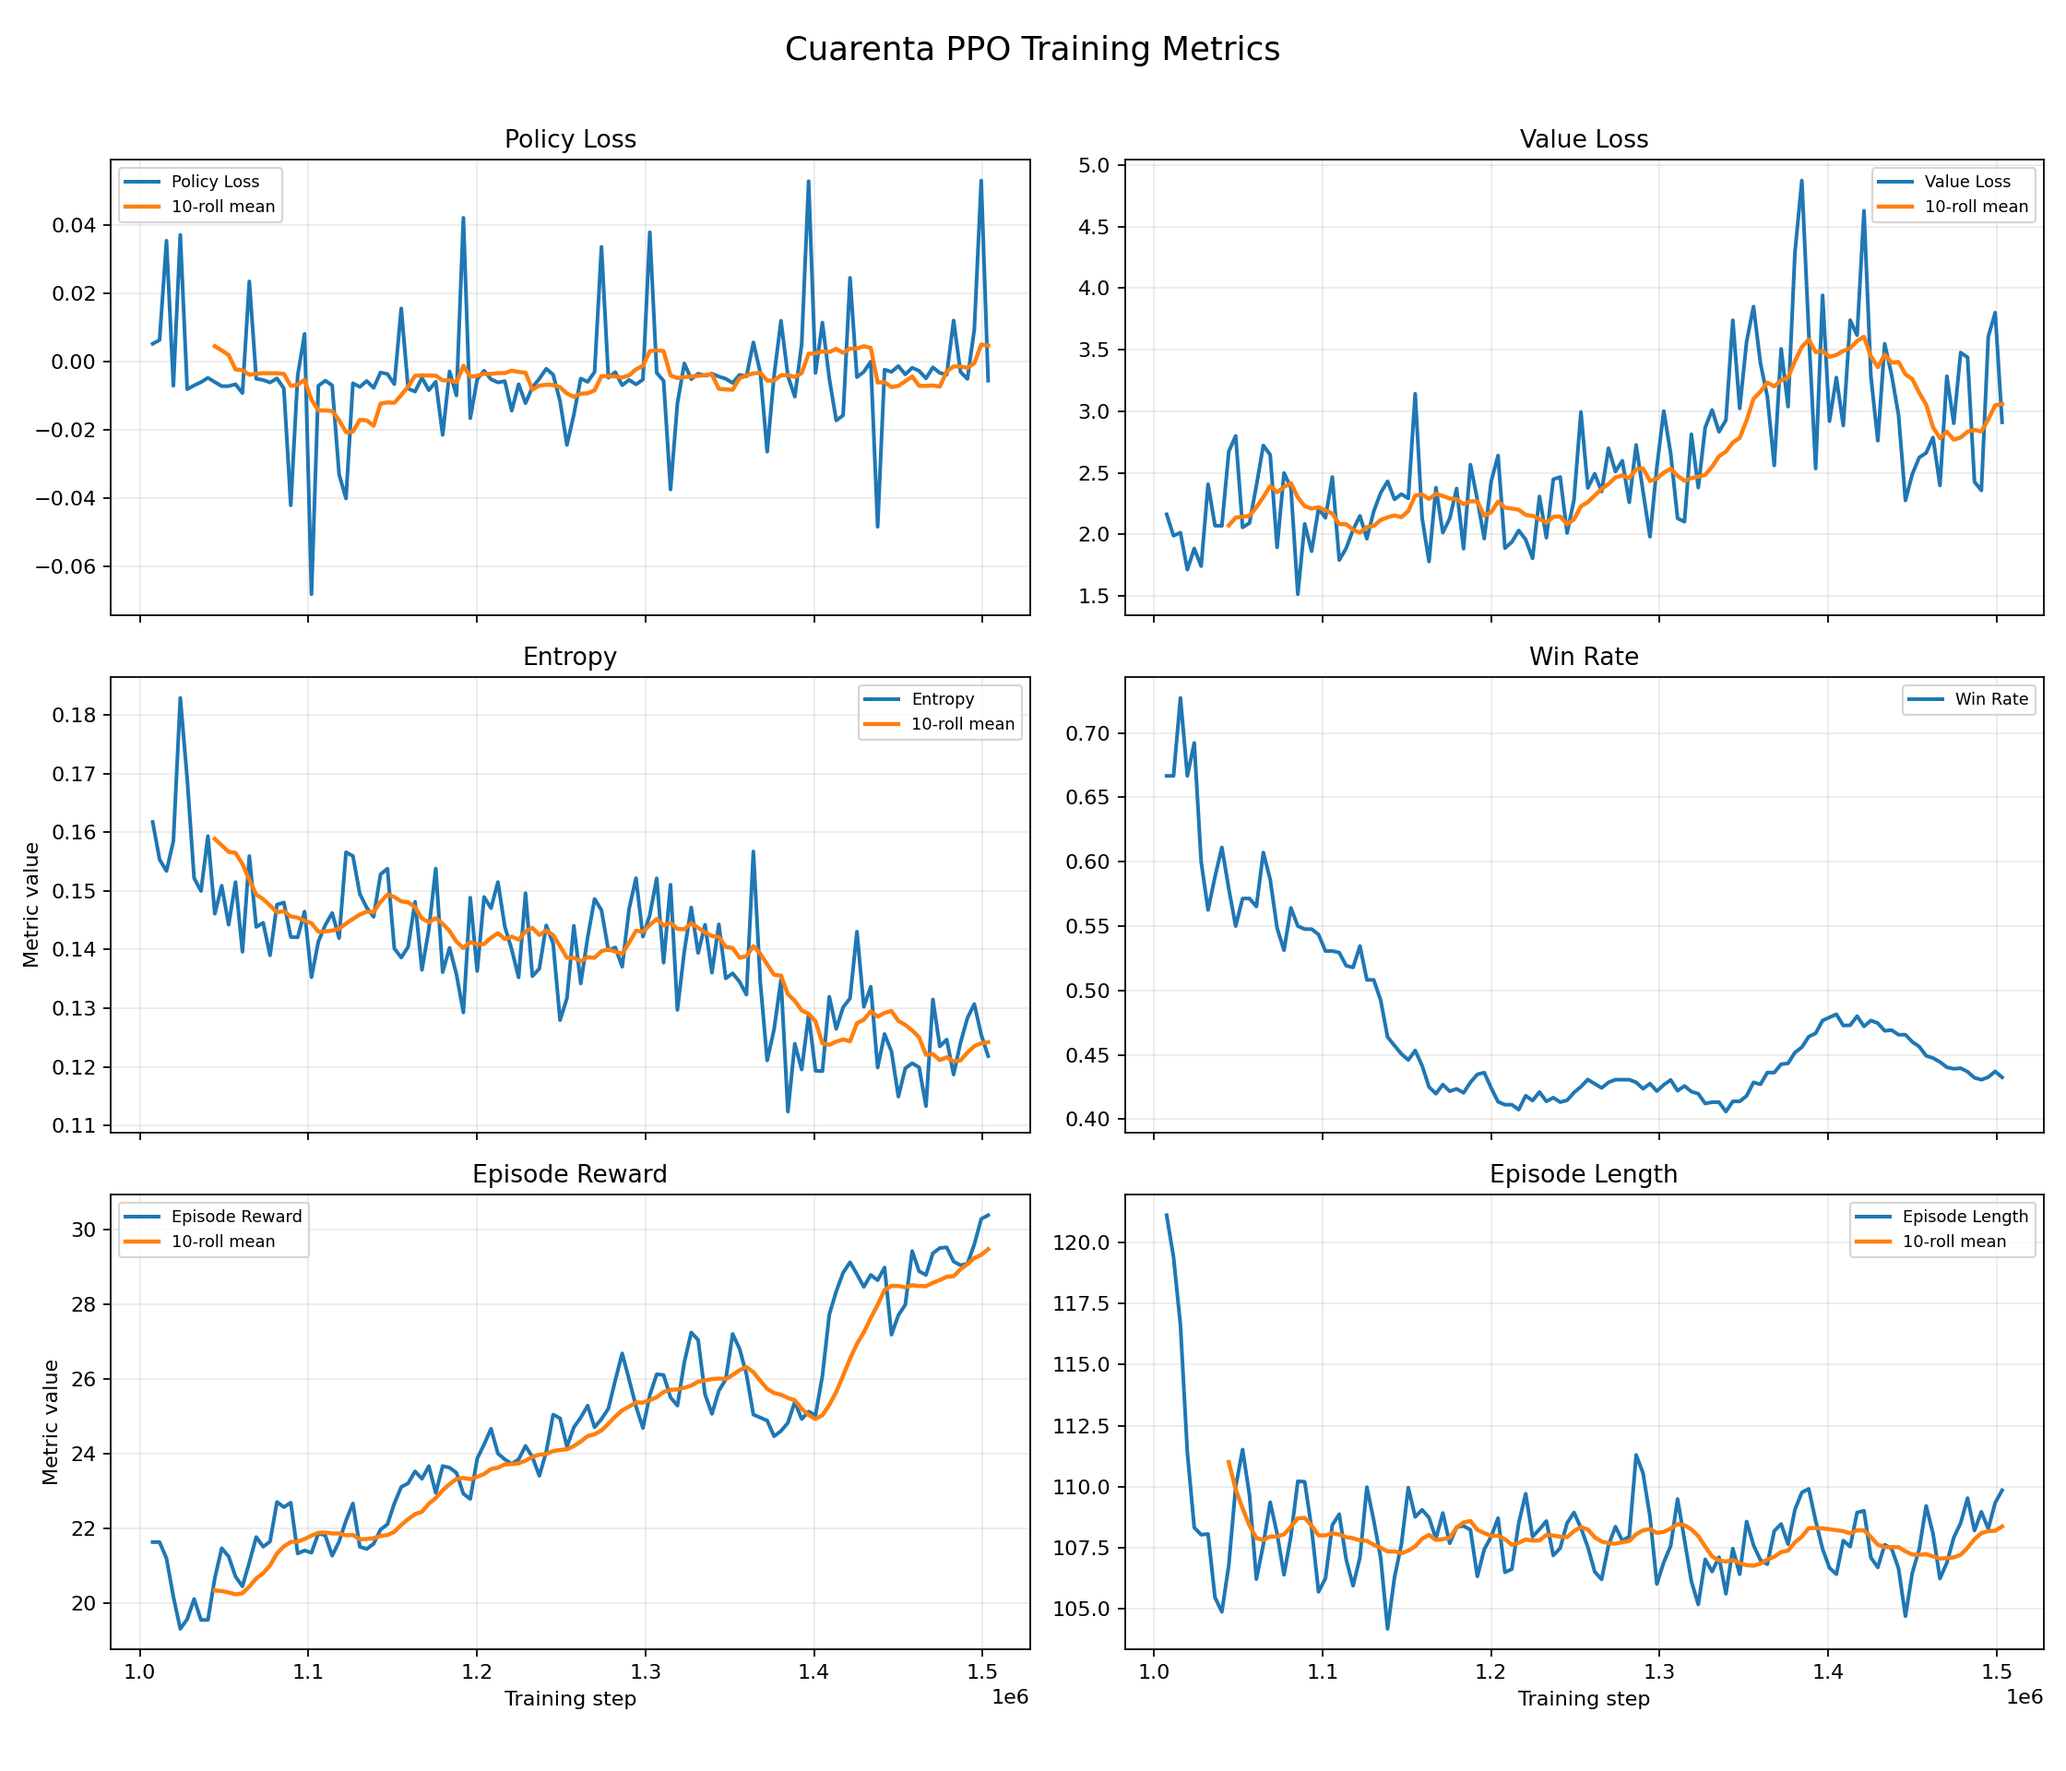
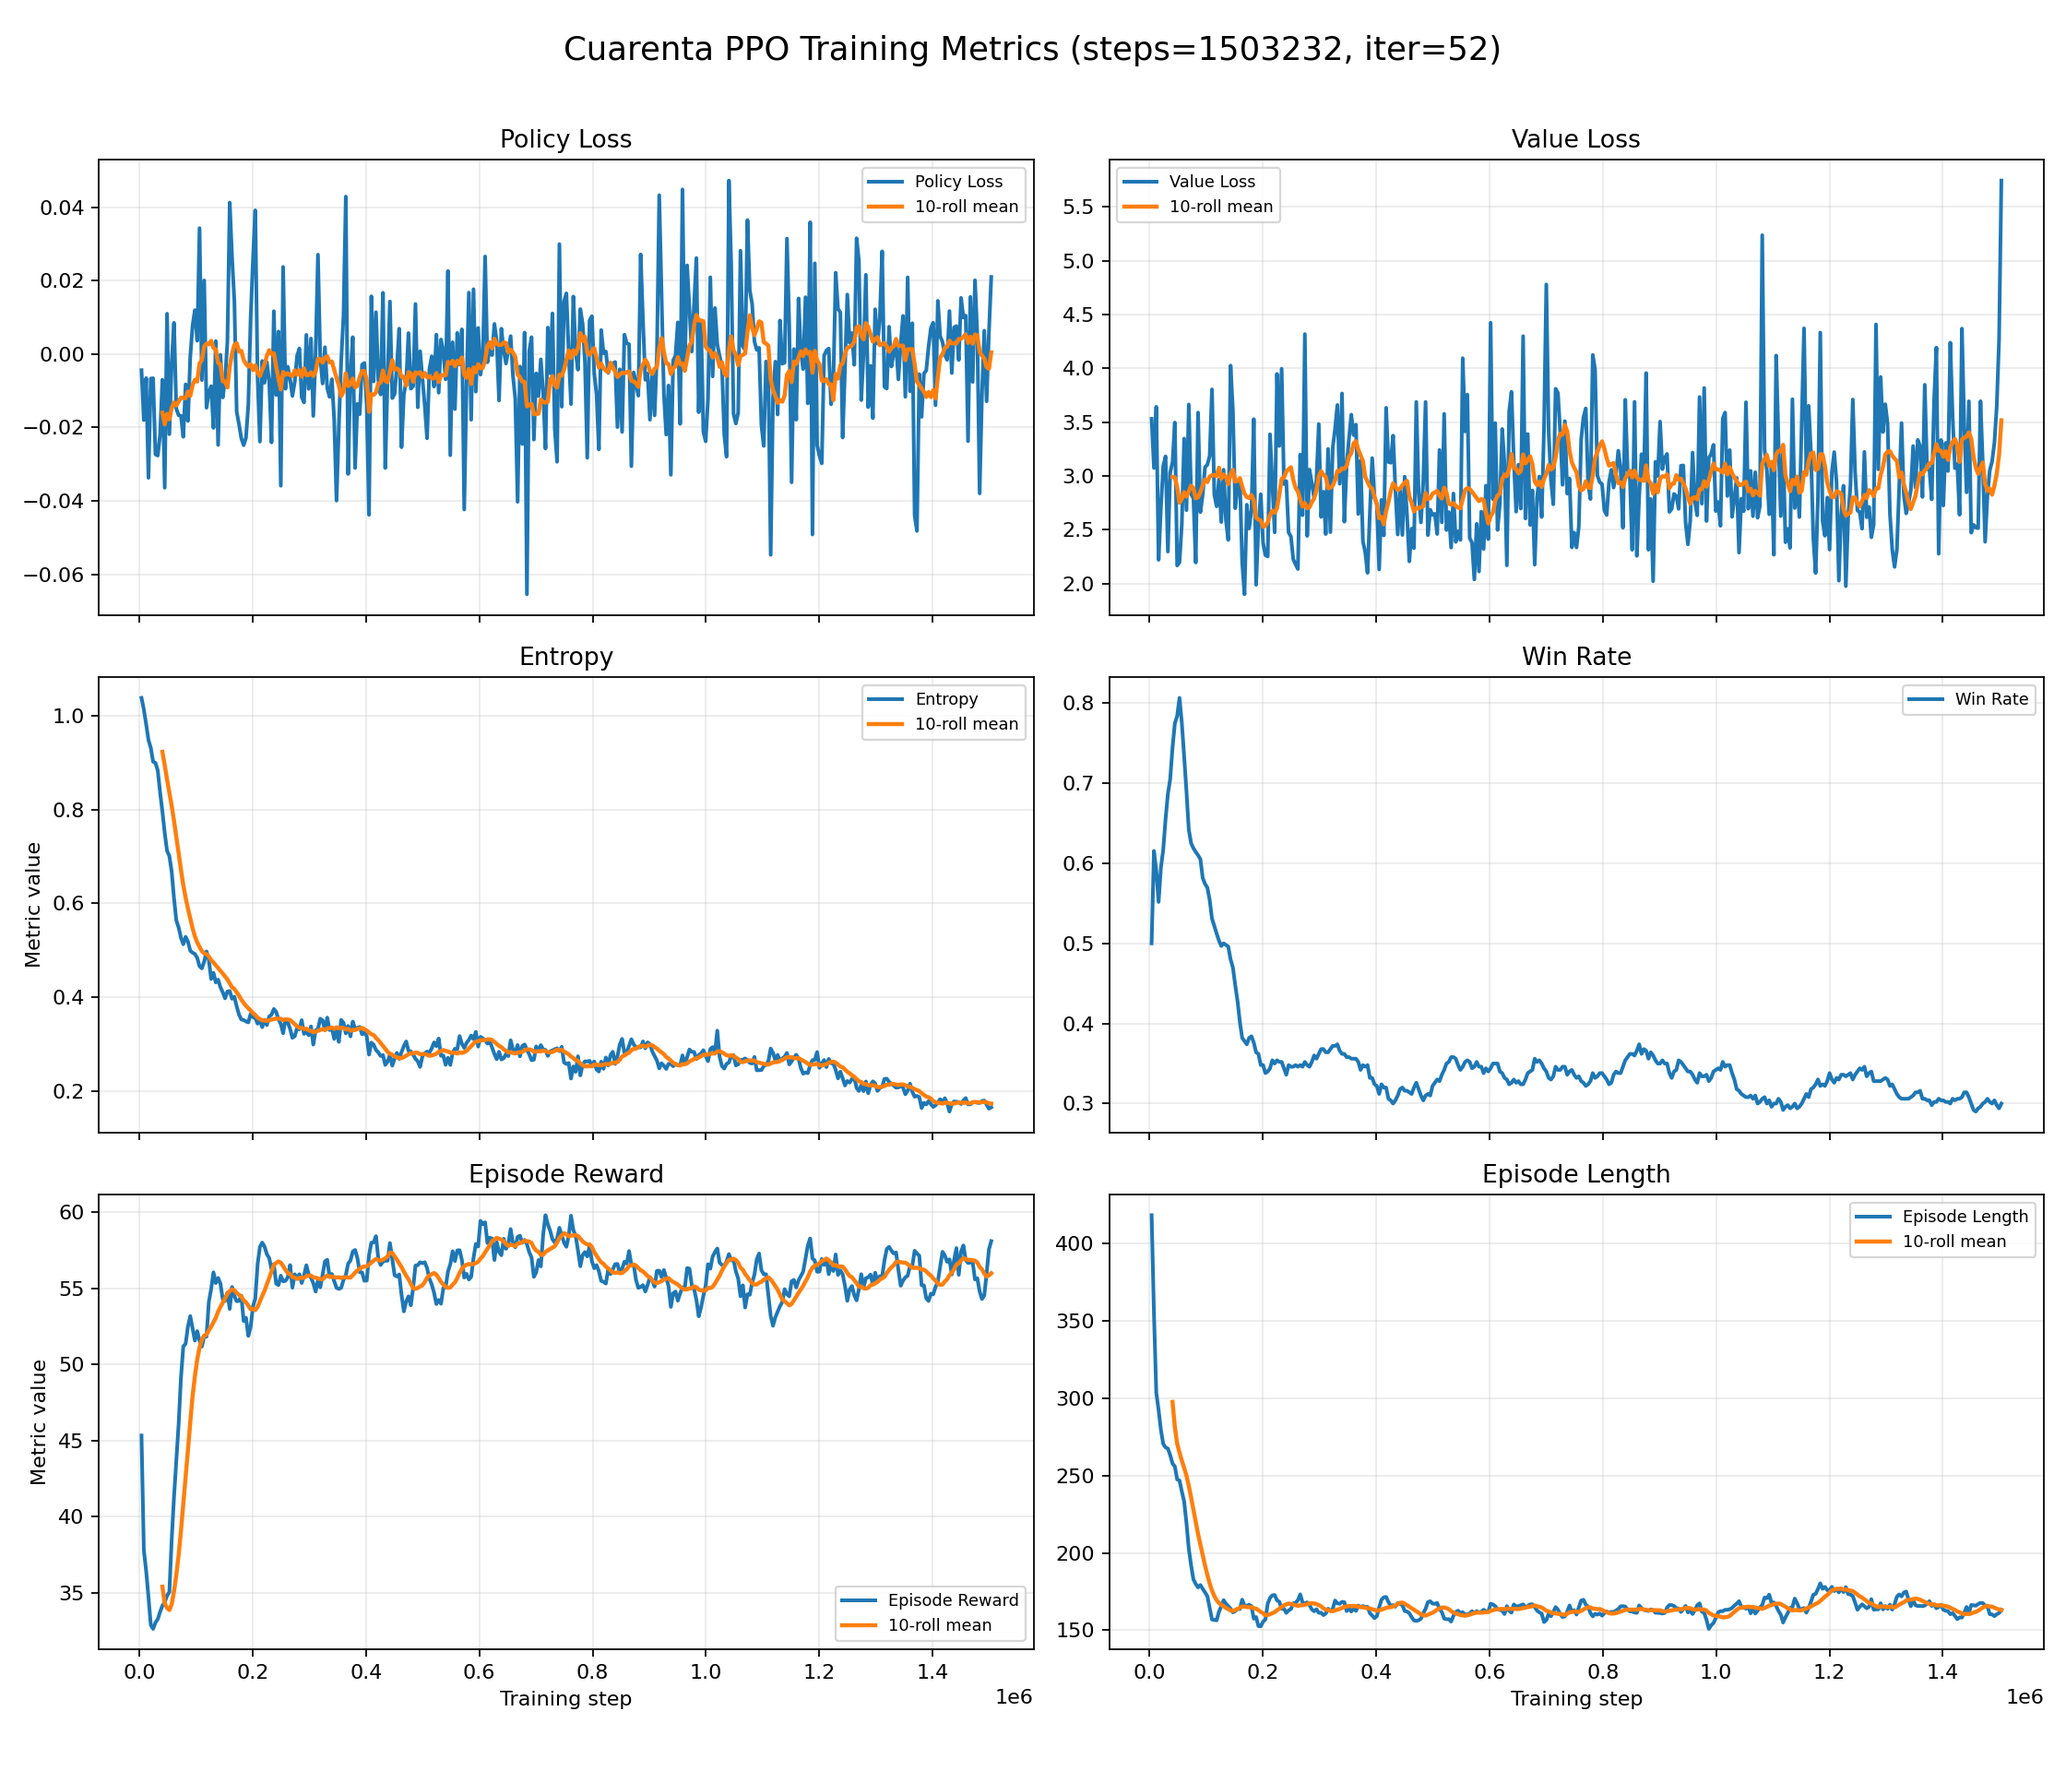
re-trained with enhancements

diff --git a/src/env.py b/src/env.py
@@ -22,7 +22,7 @@ from dataclasses import dataclass, field
 from typing import Dict, List, Optional, Tuple, FrozenSet
 
 from card import Card, build_deck, shuffled_deck
-from captures import valid_captures, score_play, must_capture
+from captures import detect_caida, valid_captures, score_play
 
 # Constants
 
@@ -89,9 +89,10 @@ class CuarentaEnv:
             obs, reward, done, info = env.step(action)
     """
 
-    def __init__(self, seed: Optional[int] = None):
+    def __init__(self, seed: Optional[int] = None, caida_exposure_penalty: float = 0.0):
         self.random = random.Random(seed)
         self.state: Optional[CuarentaState] = None
+        self.caida_exposure_penalty = float(caida_exposure_penalty)
 
 
     def reset(self) -> Tuple[Dict, Dict]:
@@ -153,8 +154,10 @@ class CuarentaEnv:
             "action": str(action),
             "points": points,
             "reasons": reasons,
+            "caida_exposure_penalty": 0.0,
         }
 
+        caida_exposure_penalty = 0.0
         if action.capture:
             # Remove captured cards from table and put them in the team's captured cards
             for card in action.capture:
@@ -165,10 +168,12 @@ class CuarentaEnv:
             # Place card on table
             s.table.append(action.card)
             s.last_placed = action.card
+            caida_exposure_penalty = self._caida_exposure_penalty_for_next_player(action.card)
+            info["caida_exposure_penalty"] = caida_exposure_penalty
 
         # --- Apply score ---
         s.scores[team] += points
-        reward = float(points)
+        reward = float(points) - caida_exposure_penalty
 
         # --- Check win ---
         if s.scores[team] >= WIN_SCORE:
@@ -188,20 +193,39 @@ class CuarentaEnv:
                 # There's still deck to play
                 self._redeal()
             else:
-                # Check if either team has won after bonus
+                # Count carton for each team
                 for team in range(2):
-                    # Count carton for each team
                     carton_points = len(s.cards_captured[team]) - 19
                     if carton_points > 0:
                         carton_points += 5 # +5 because at 20 we start to count 6,7,8...
                         if carton_points % 2 != 0:
                             carton_points += 1
                         
-                        s.scores[team] += max(carton_points, MAX_ACHIEVABLE_POINTS_BY_NON_CAIDA_ACTIONS)
-
+                        s.scores[team] += max(carton_points, MAX_ACHIEVABLE_POINTS_BY_NON_CAIDA_ACTIONS) 
                 self._new_round()
 
         return self.observe(s.current_player), reward, False, info
+
+    def _caida_exposure_penalty_for_next_player(self, played_card: Card) -> float:
+        """
+        Return a shaping penalty for leaving `played_card` on the table in a position
+        where the next player can immediately answer with a caída.
+
+        This does not alter the true game score; it only shapes RL rewards.
+        """
+        if self.caida_exposure_penalty <= 0.0:
+            return 0.0
+
+        s = self.state
+        next_player = (s.current_player + 1) % NUM_PLAYERS
+        table_after_play = s.table
+
+        for response_card in s.hands[next_player]:
+            for capture_set in valid_captures(response_card, table_after_play):
+                if played_card in capture_set and detect_caida(response_card, capture_set, played_card):
+                    return self.caida_exposure_penalty
+
+        return 0.0
 
     def legal_actions(self) -> List[Action]:
         """Return all legal Action objects for the current player."""
@@ -303,6 +327,9 @@ class CuarentaEnv:
         s.cards_captured = [[], []]
         s.table = []
         s.last_placed = None
+
+        # next player starts in new round
+        s.current_player = (s.current_player + 1) % NUM_PLAYERS
 
     # ------------------------------------------------------------------
     # Rendering

diff --git a/src/ppo.py b/src/ppo.py
@@ -61,6 +61,7 @@ class PPOConfig:
     pool_size: int = 20
     opponent_latest: float = 0.8
     opponent_mode: str = "selfplay"  # "heuristic" | "selfplay" | "random"
+    caida_exposure_penalty: float = 0.5
     save_dir: str = "data/policies"
     init_policy: str = DEFAULT_POLICY_INIT
     # Logging / training length
@@ -233,7 +234,10 @@ class PPOTrainer:
         print(f"[PPO] Using device: {self.device}")
 
         # Environments
-        self.envs = [CuarentaEnv(seed=i) for i in range(cfg.n_envs)]
+        self.envs = [
+            CuarentaEnv(seed=i, caida_exposure_penalty=cfg.caida_exposure_penalty)
+            for i in range(cfg.n_envs)
+        ]
         self.env_obs = [None] * cfg.n_envs
         self.env_done = [True] * cfg.n_envs
         self.action_encoders = [ActionEncoder(env) for env in self.envs]
@@ -622,6 +626,7 @@ if __name__ == "__main__":
     parser.add_argument("--lr", type=float, default=3e-4)
     parser.add_argument("--save-dir", type=str, default="data/policies")
     parser.add_argument("--init-policy", type=str, default=DEFAULT_POLICY_INIT)
+    parser.add_argument("--caida-exposure-penalty", type=float, default=0.5)
     parser.add_argument("--resume", type=str, default=None)
     parser.add_argument(
         "--opponent-mode",
@@ -640,6 +645,7 @@ if __name__ == "__main__":
         save_dir=args.save_dir,
         init_policy=args.init_policy,
         opponent_mode=args.opponent_mode,
+        caida_exposure_penalty=args.caida_exposure_penalty,
     )
 
     trainer = PPOTrainer(cfg, device=args.device)

diff --git a/src/tests.py b/src/tests.py
@@ -299,6 +299,27 @@ obs4, reward4, done4, info4 = env3.step(capture3[0])
 test("Caída: reward = 2 (caída) = 2", reward4 == 2.0, f"got {reward4}")
 test("Caída reason reported", any("caída" in r for r in info4["reasons"]))
 
+section("env.py — Caída exposure shaping")
+
+env4b = CuarentaEnv(seed=4, caida_exposure_penalty=1.0)
+env4b.reset()
+s4b = env4b.state
+s4b.current_player = 0
+
+# Set up: player 0 places a 5 and player 1 can immediately caida it with another 5.
+five_red = Card(Rank.CINCO, Suit.CORAZONES_ROJOS)
+five_black = Card(Rank.CINCO, Suit.CORAZONES_NEGROS)
+s4b.table = []
+s4b.hands[0] = [five_red]
+s4b.hands[1] = [five_black]
+
+legal4b = env4b.legal_actions()
+place4b = [a for a in legal4b if a.capture is None][0]
+obs4b, reward4b, done4b, info4b = env4b.step(place4b)
+test("Caída exposure: shaping penalty applied", reward4b == -1.0, f"got {reward4b}")
+test("Caída exposure: penalty reported in info", info4b["caida_exposure_penalty"] == 1.0,
+     f"got {info4b['caida_exposure_penalty']}")
+
 section("env.py — Ronda scoring")
 
 env4 = CuarentaEnv(seed=2)

diff --git a/src/utils.py b/src/utils.py
@@ -2,7 +2,6 @@ from __future__ import annotations
 
 from typing import List, Dict
 
-from matplotlib.table import table
 import numpy as np
 import torch
 

diff --git a/MODEL.md b/MODEL.md
@@ -1,0 +1,43 @@
+# Round 1
+
+## Imitation learning
+First, I trained a policy with imitation learning using DAGGER (Dataset Aggregation). I chose DAGGER as it's an effective and easy to undestand algorithm. Good enough for the job of giving initial "knowledge" to the cuarenta agent in order to not start the reinforcement learning loop from random weights (which would increase the training time).
+
+I played 10 games of cuarenta with up to 40 steps. After each 40 steps, the DAGGER algorithm would run a training batch.
+
+## Reinforcement learning with PPO
+Later, I trained the policy with PPO (Proximal Policy Optimization) by self-play starting on the final imitation learning policy (data/policies/cuarenta_policy_final.pt).
+
+**SPECS:**
+- 3,000,000 steps.
+- 1e-3 (up to iteration / snapshot 53) and 1e-4 (from there on) learning rate.
+- 8 concurrent environments.
+- 4 epochs.
+- batch size of 128.
+- gamma of 0.99.
+- For opponent selection, use a 20% probability of selecting the latest snapshot. A new opponent is selected on snapshot save.
+
+This phase took ~6 hours, ~1 hour per 500,000 steps on average.
+
+## Results
+I didn't have metric scores collection code set up when I ran round 1 up to snapshot 41.
+
+Starting from snapshot 42 (iteration 1,050,000) got these metrics:
+
+| snapshot | value loss           | entropy                      | win rate            | episode reward    |   |   |   |   |   |
+|----------|----------------------|------------------------------|---------------------|-------------------|---|---|---|---|---|
+| 42       | 2 - 3, very unstable | 0.16 - 0.125,  very unstable | 0.7 - 0.4, unstable | 20 - 30, unstable |   |   |   |   |   |
+| 53       | 3 - 4.25             | 0.12 - 0.95                  | 0.6 - 0.4           | 32 - 39           |   |   |   |   |   |
+| 64       | 4 - 4                | 0.10 - 0.07                  | 0.14 - 0.27         | 40 - 39.5         |   |   |   |   |   |
+| 75       | 5 - 3 - 5            | 0.065 - 0.057                | 0.07 - 0.35         | 67.5              |   |   |   |   |   |
+|          |                      |                              |                     |                   |   |   |   |   |   |
+|          |                      |                              |                     |                   |   |   |   |   |   |
+|          |                      |                              |                     |                   |   |   |   |   |   |
+|          |                      |                              |                     |                   |   |   |   |   |   |
+|          |                      |                              |                     |                   |   |   |   |   |   |
+
+
+
+To test the model in the real world, two humans played four games against two agents running snapshot 75. Humans won the four games. The agents didn't make any obvious mistakes. They didn't make any evident planned plays, though.
+
+The games were taking long. Up to ~180 steps. There was no much "cartón" captured. It seems like the agents are fit for long games.

diff --git a/README.md b/README.md
@@ -26,7 +26,7 @@ PPO + self-play agent for the Ecuadorian card game Cuarenta, implemented in PyTo
 | `captures.py` | Legal capture logic — match, sum, caída, ronda |
 | `env.py` | 4-player game environment (PettingZoo-style) |
 | `model.py` | PyTorch actor-critic — Transformer encoder + two-headed policy |
-| `ppo.py` | PPO trainer with GAE, self-play checkpoint pool |
+| `ppo.py` | PPO trainer with GAE, self-play checkpoint pool, optional caida-exposure shaping |
 | `evaluate.py` | Evaluation — vs random, vs heuristic, watch mode |
 | `tests.py` | Full test suite for the environment |
 

diff --git a/TRAINING.md b/TRAINING.md
@@ -57,6 +57,7 @@ python src/ppo.py \
 - `--n-steps`: Steps per rollout (default: 512)
 - `--lr`: Learning rate (default: 3e-4)
 - `--n-epochs`: Gradient epochs per rollout
+- `--caida-exposure-penalty`: Reward penalty for leaving a card exposed to an immediate caida by the next player
 - `--save-dir`: Policy snapshot directory (default: `data/policies/`)
 - `--init-policy`: Warm-start policy path (default: `data/policies/cuarenta_policy_final.pt`)
 
